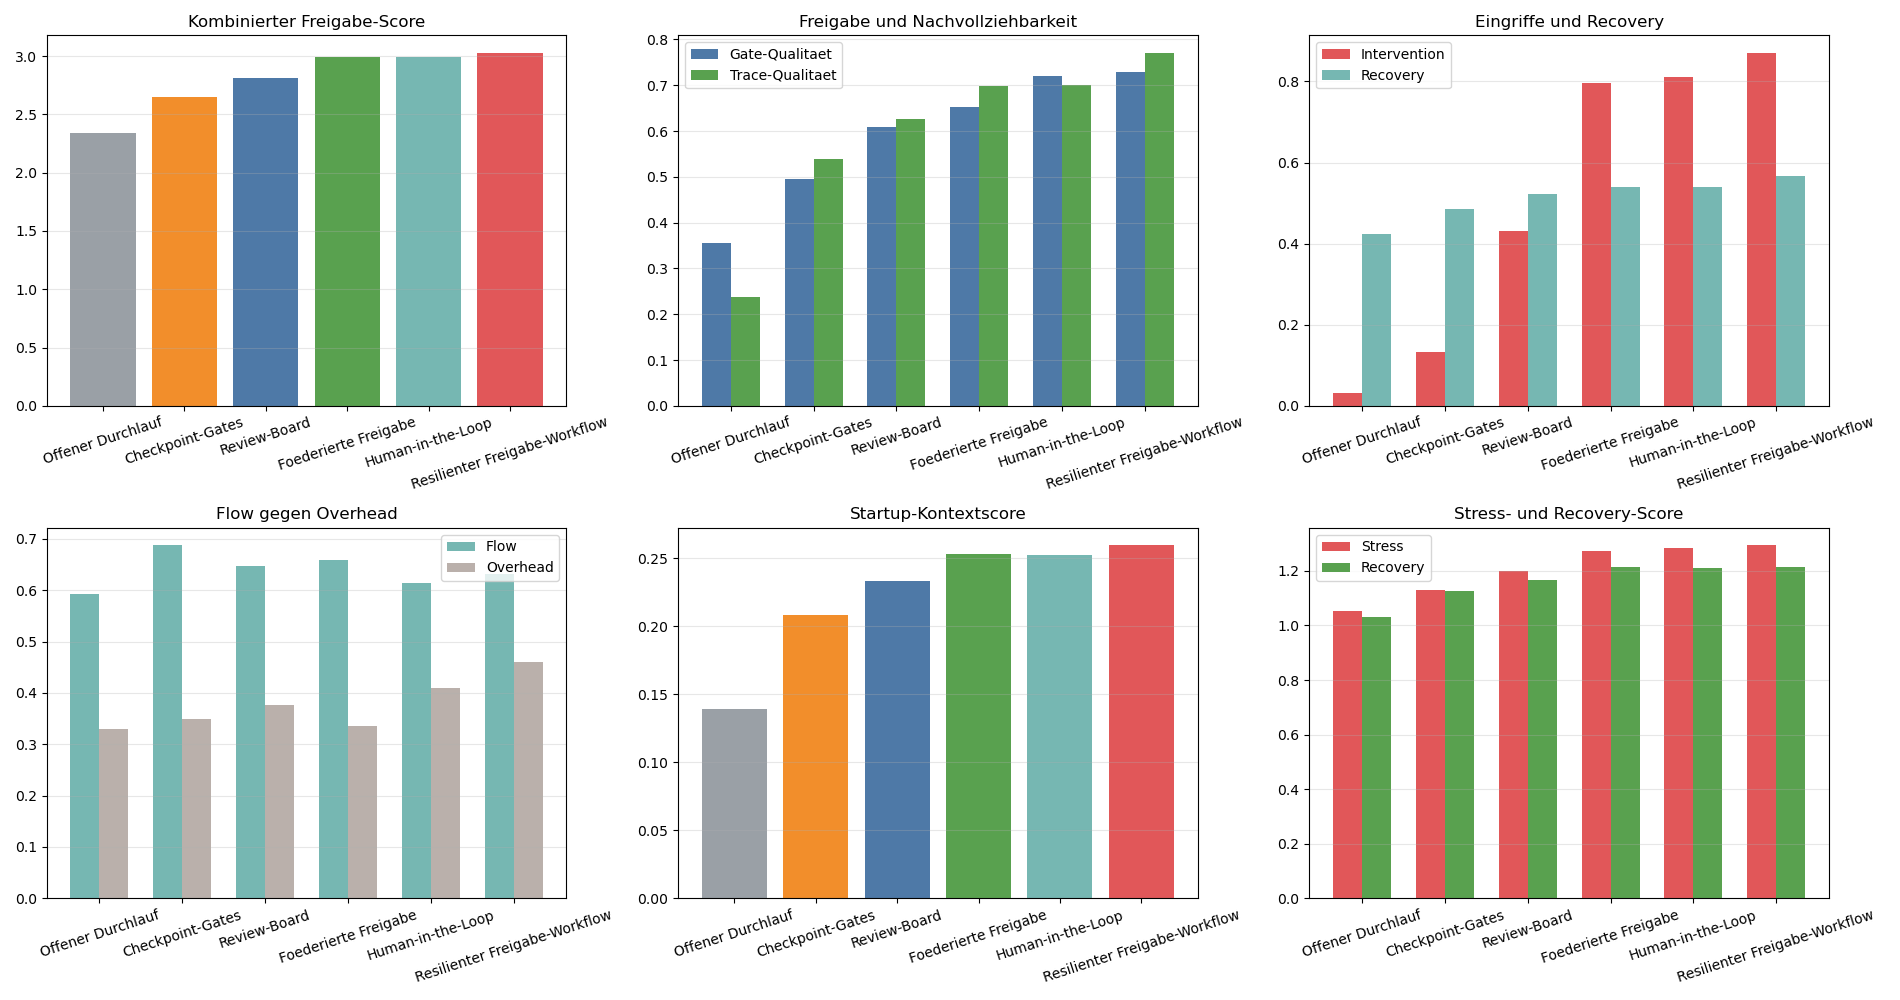
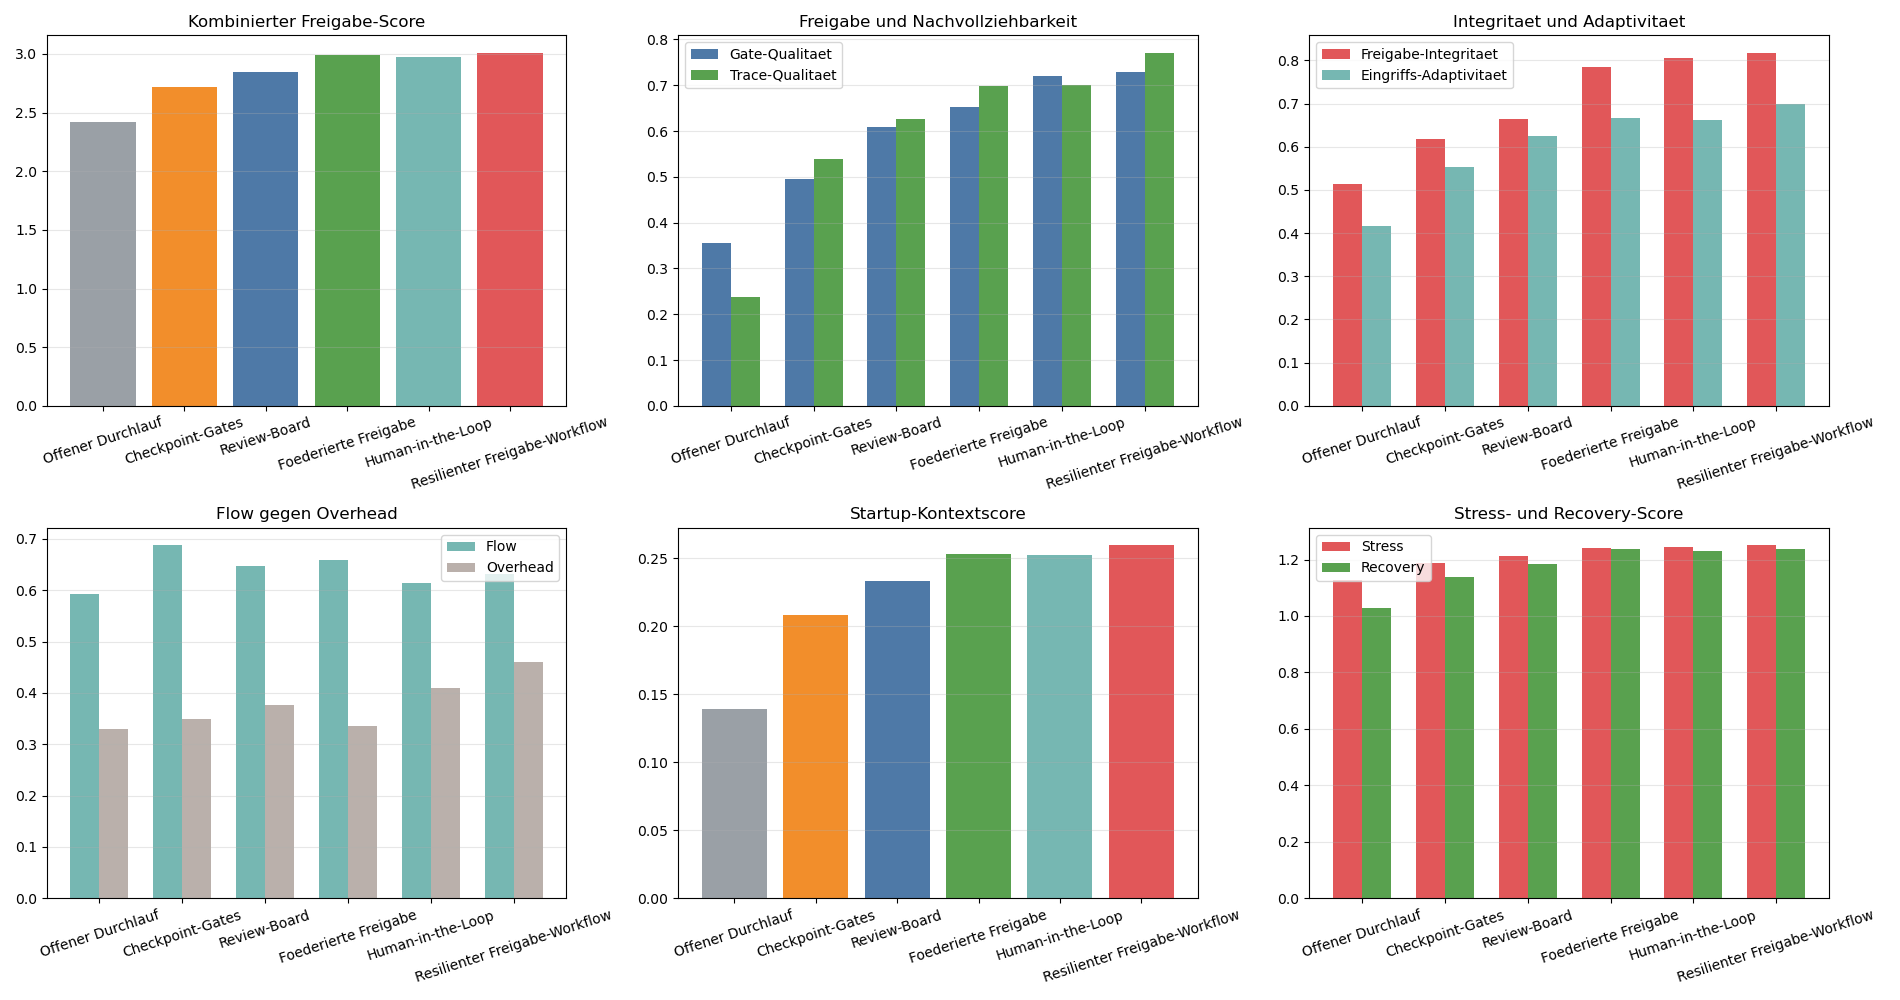
Refine approval workflow integrity metrics

diff --git a/schwarm_freigabe_workflow.py b/schwarm_freigabe_workflow.py
@@ -362,6 +362,28 @@ def approval_metrics(config, result, params, profile):
             ]
         )
     )
+    approval_integrity = clamp01(
+        mittelwert(
+            [
+                gate_quality,
+                trace_quality,
+                1.0 - workflow.get('misinformation_corruption_mean', 0.0),
+                1.0 - workflow.get('cluster_compromise_mean', 0.0),
+                workflow.get('trust_shield_mean', 0.0),
+            ]
+        )
+    )
+    intervention_adaptivity = clamp01(
+        mittelwert(
+            [
+                intervention_quality,
+                recovery_safety,
+                workflow_flow,
+                workflow.get('sync_strength_mean', 0.0),
+                workflow.get('resource_efficiency', 0.0),
+            ]
+        )
+    )
     approval_overhead = clamp01(
         mittelwert(
             [
@@ -394,6 +416,8 @@ def approval_metrics(config, result, params, profile):
         'intervention_quality': intervention_quality,
         'workflow_flow': workflow_flow,
         'recovery_safety': recovery_safety,
+        'approval_integrity': approval_integrity,
+        'intervention_adaptivity': intervention_adaptivity,
         'approval_overhead': approval_overhead,
     }
 
@@ -459,16 +483,14 @@ def context_score(kontext_name, result, agent_count):
     if kontext_name == 'stress':
         return (
             base
-            + 0.16 * metrics['gate_quality']
-            + 0.14 * metrics['intervention_quality']
+            + 0.16 * metrics['approval_integrity']
+            + 0.14 * metrics['intervention_adaptivity']
             + 0.08 * metrics['trace_quality']
-            - 0.12 * metrics['corruption_mean']
-            - 0.10 * metrics['cluster_compromise_mean']
             - 0.08 * metrics['approval_overhead']
         )
     return (
         base
-        + 0.18 * metrics['recovery_safety']
+        + 0.18 * metrics['intervention_adaptivity']
         + 0.12 * metrics['intervention_quality']
         + 0.08 * metrics['workflow_flow']
         - 0.12 * failed_share
@@ -484,6 +506,8 @@ def summarize_runs(runs, profile, context_list, agent_count):
         'intervention_quality': {},
         'workflow_flow': {},
         'recovery_safety': {},
+        'approval_integrity': {},
+        'intervention_adaptivity': {},
         'approval_overhead': {},
     }
 
@@ -538,8 +562,8 @@ def main():
         print(
             f"{summary['label']:<30} Score={summary['combined_score']:+.3f} | "
             f"Gate={summary['gate_quality']['startup']:.2f} | "
-            f"Trace={summary['trace_quality']['operations']:.2f} | "
-            f"Recovery={summary['recovery_safety']['recovery']:.2f}"
+            f"Integritaet={summary['approval_integrity']['stress']:.2f} | "
+            f"Adaptivitaet={summary['intervention_adaptivity']['recovery']:.2f}"
         )
 
     best = max(summaries, key=lambda item: item['combined_score'])
@@ -552,8 +576,8 @@ def main():
     )
     print(
         f"Gate {best['gate_quality']['startup']:.2f}, "
-        f"Trace {best['trace_quality']['operations']:.2f}, "
-        f"Recovery {best['recovery_safety']['recovery']:.2f}"
+        f"Integritaet {best['approval_integrity']['stress']:.2f}, "
+        f"Adaptivitaet {best['intervention_adaptivity']['recovery']:.2f}"
     )
 
     labels = [item['label'] for item in summaries]
@@ -591,19 +615,19 @@ def main():
 
     axes[0, 2].bar(
         x - width / 2,
-        [item['intervention_quality']['stress'] for item in summaries],
+        [item['approval_integrity']['stress'] for item in summaries],
         width,
-        label='Intervention',
+        label='Freigabe-Integritaet',
         color='#e15759',
     )
     axes[0, 2].bar(
         x + width / 2,
-        [item['recovery_safety']['recovery'] for item in summaries],
+        [item['intervention_adaptivity']['recovery'] for item in summaries],
         width,
-        label='Recovery',
+        label='Eingriffs-Adaptivitaet',
         color='#76b7b2',
     )
-    axes[0, 2].set_title('Eingriffe und Recovery')
+    axes[0, 2].set_title('Integritaet und Adaptivitaet')
     axes[0, 2].set_xticks(x)
     axes[0, 2].set_xticklabels(labels, rotation=18)
     axes[0, 2].legend()
